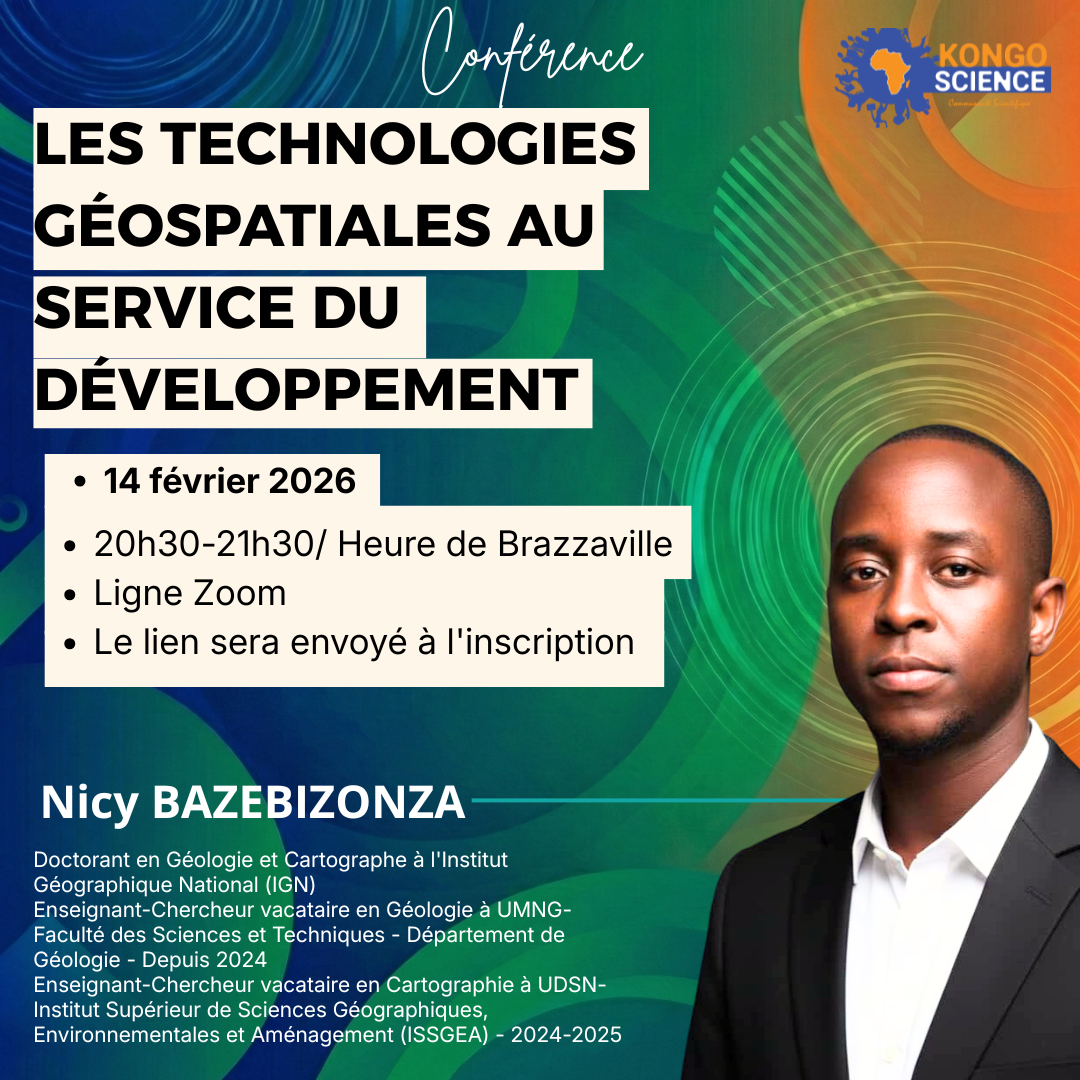
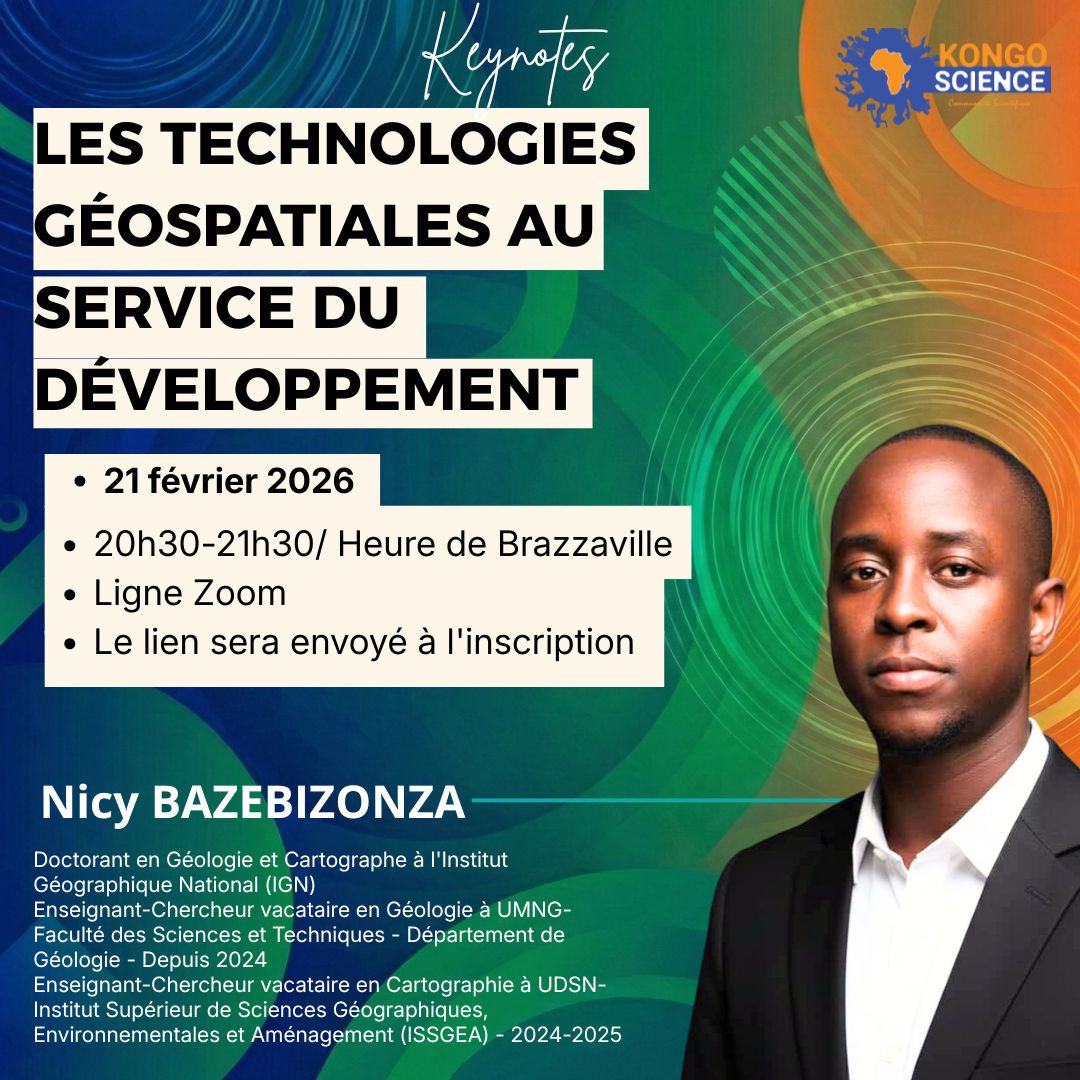
uptodate of Nicy conference

Changed region(s): [[0.3667, 0.0, 0.5806, 0.0917], [0.0917, 0.4278, 0.3361, 0.4583]]

diff --git a/src/constants.ts b/src/constants.ts
@@ -133,9 +133,9 @@ export const CONFERENCES: (Conference & { imageUrl: string })[] = [
     id: 'conf-technologies-geographiques',
     title: 'Les technologies géospatiales au service du développement',
     description: 'Une conférence de Nicy Bazebizonza (Doctorant en Géologie & Cartographe à l\'IGN). Exploration de l\'impact de la géomatique et des SIG sur la planification et le développement.',
-    date: '2026-02-14',
+    date: '2026-02-21',
     time: '20:30',
-    day: '14',
+    day: '21',
     month: 'FEV',
     location: 'Brazzaville (heure locale)',
     type: 'Webinaire',
